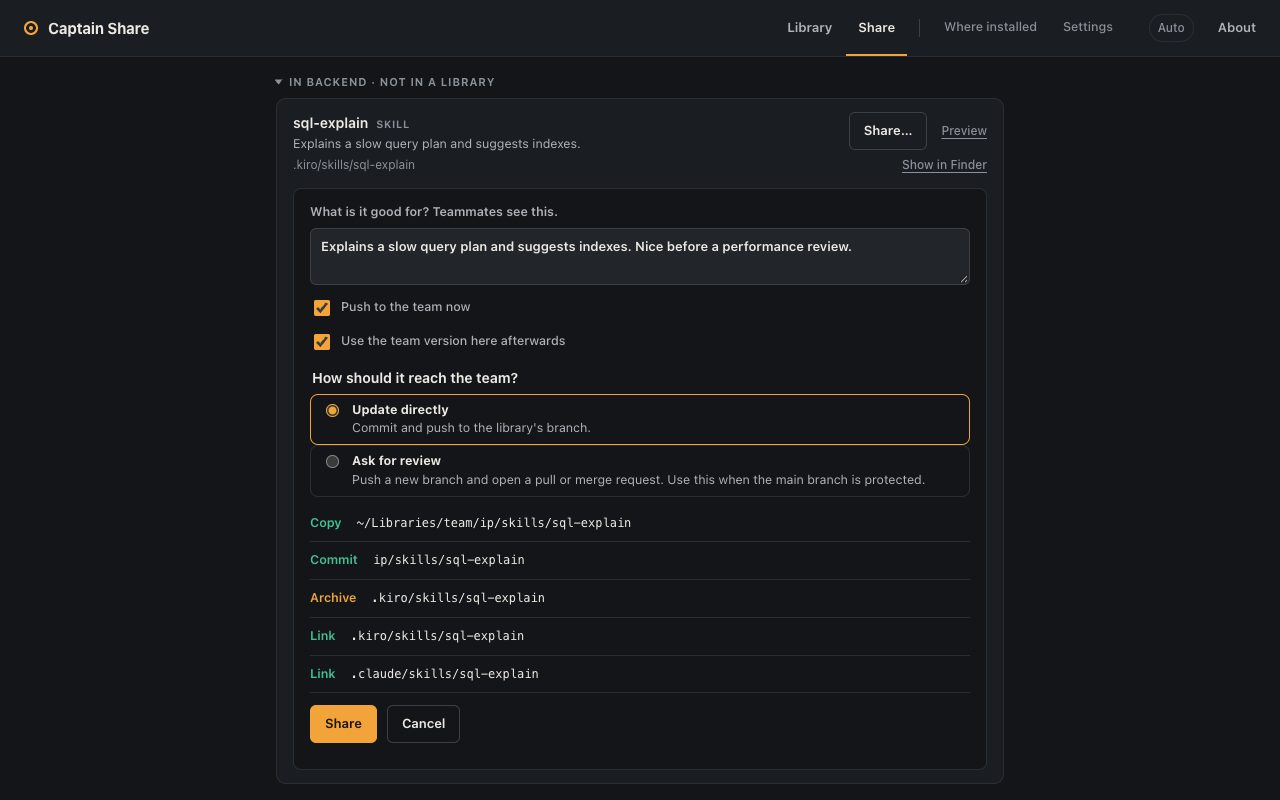
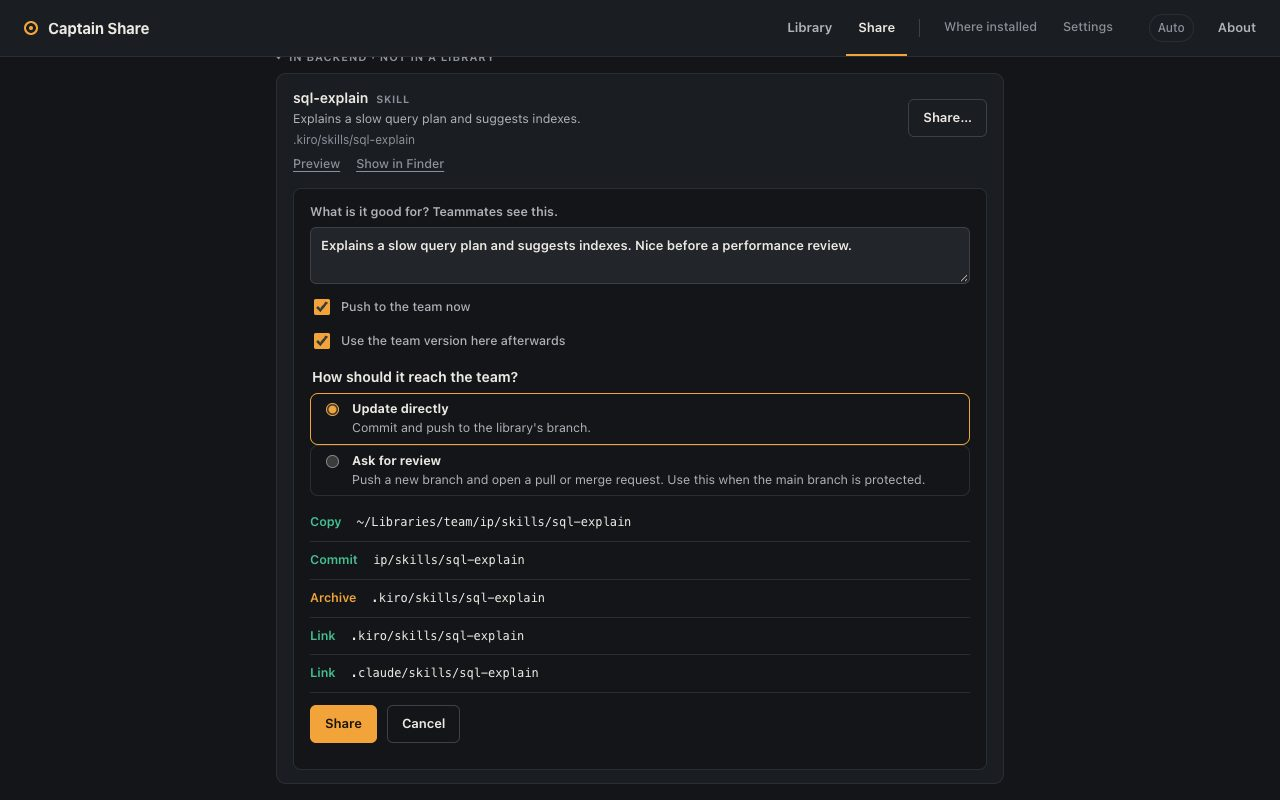
Put a row's text links on their own line
The right column of a Library or Share row keeps the main action (Get,
Share…, Update…) and its status; Preview, Show in Finder, Remove and the other
text links move to one line under the description. "Copy get command", which
appears on hover, goes last so it leaves no gap. Compact view keeps them
behind the row expander. The tour is recorded again for the new rows.

diff --git a/captain_share/web/tour.js b/captain_share/web/tour.js
@@ -36,8 +36,8 @@ const STEPS = [
   },
   {
     image: "05-get.jpg",
-    x: 65.2,
-    y: 74.6,
+    x: 75.1,
+    y: 69.9,
     click: true,
     title: "Get what a colleague recommends",
     text: "Someone says “try pr-review”. Find it in Library and click Get.",
@@ -52,8 +52,8 @@ const STEPS = [
   },
   {
     image: "07-look.jpg",
-    x: 74.2,
-    y: 37.6,
+    x: 25.9,
+    y: 43.4,
     click: true,
     title: "Look before you share",
     text: "Share lists skills in this project and in your global folders that no library has yet. Preview shows what is inside; Show in Finder opens the folder.",
@@ -69,7 +69,7 @@ const STEPS = [
   {
     image: "09-shared.jpg",
     x: 72.3,
-    y: 62.5,
+    y: 65.6,
     click: true,
     title: "Tell your team",
     text: "The result says where the commit landed. You get a line to paste in chat; that is all a teammate needs.",
@@ -98,7 +98,7 @@ const STEPS = [
   },
   {
     image: "13-new.jpg",
-    x: 65.2,
+    x: 75.1,
     y: 50,
     click: false,
     title: "New since you last looked",

diff --git a/captain_share/web/app.js b/captain_share/web/app.js
@@ -3727,6 +3727,20 @@ applyDensity();
 function expandable(row) {
   const name = row.querySelector(".lib-name");
   if (!name || name.querySelector(".row-toggle")) return;
+  // The right column keeps the main action; text links (Preview, Show in Finder,
+  // Remove…) get their own line under the description.
+  const act = row.querySelector(":scope > .lib-act");
+  const links = act ? [...act.querySelectorAll(":scope > button.link")] : [];
+  // "Copy get command" appears on hover; at the end it leaves no gap between links.
+  links.sort(
+    (a, b) =>
+      a.classList.contains("copy-get") - b.classList.contains("copy-get"),
+  );
+  if (links.length) {
+    const line = el("div", undefined, "lib-links");
+    line.append(...links);
+    row.insertBefore(line, act);
+  }
   const toggle = el("button", undefined, "row-toggle");
   toggle.type = "button";
   toggle.setAttribute("aria-expanded", String(row.classList.contains("open")));

diff --git a/captain_share/web/style.css b/captain_share/web/style.css
@@ -666,7 +666,8 @@ details.lib-section[open] > summary.lib-heading::before {
 }
 .compact .lib-row:not(.open) > .lib-desc,
 .compact .lib-row:not(.open) > .lib-meta,
-.compact .lib-row:not(.open) .lib-act .link {
+.compact .lib-row:not(.open) .lib-act .link,
+.compact .lib-row:not(.open) > .lib-links {
   display: none;
 }
 /* One line at every width: name on the left, status or button on the right. */
@@ -764,6 +765,16 @@ details.lib-section[open] > summary.lib-heading::before {
   margin: 2px 0 0;
   font-size: 12px;
   color: var(--ink-3);
+}
+.lib-links {
+  display: flex;
+  flex-wrap: wrap;
+  gap: 4px 16px;
+  margin-top: 6px;
+  font-size: 12.5px;
+}
+.lib-links .link {
+  font-size: inherit;
 }
 .lib-act {
   grid-column: 2;
